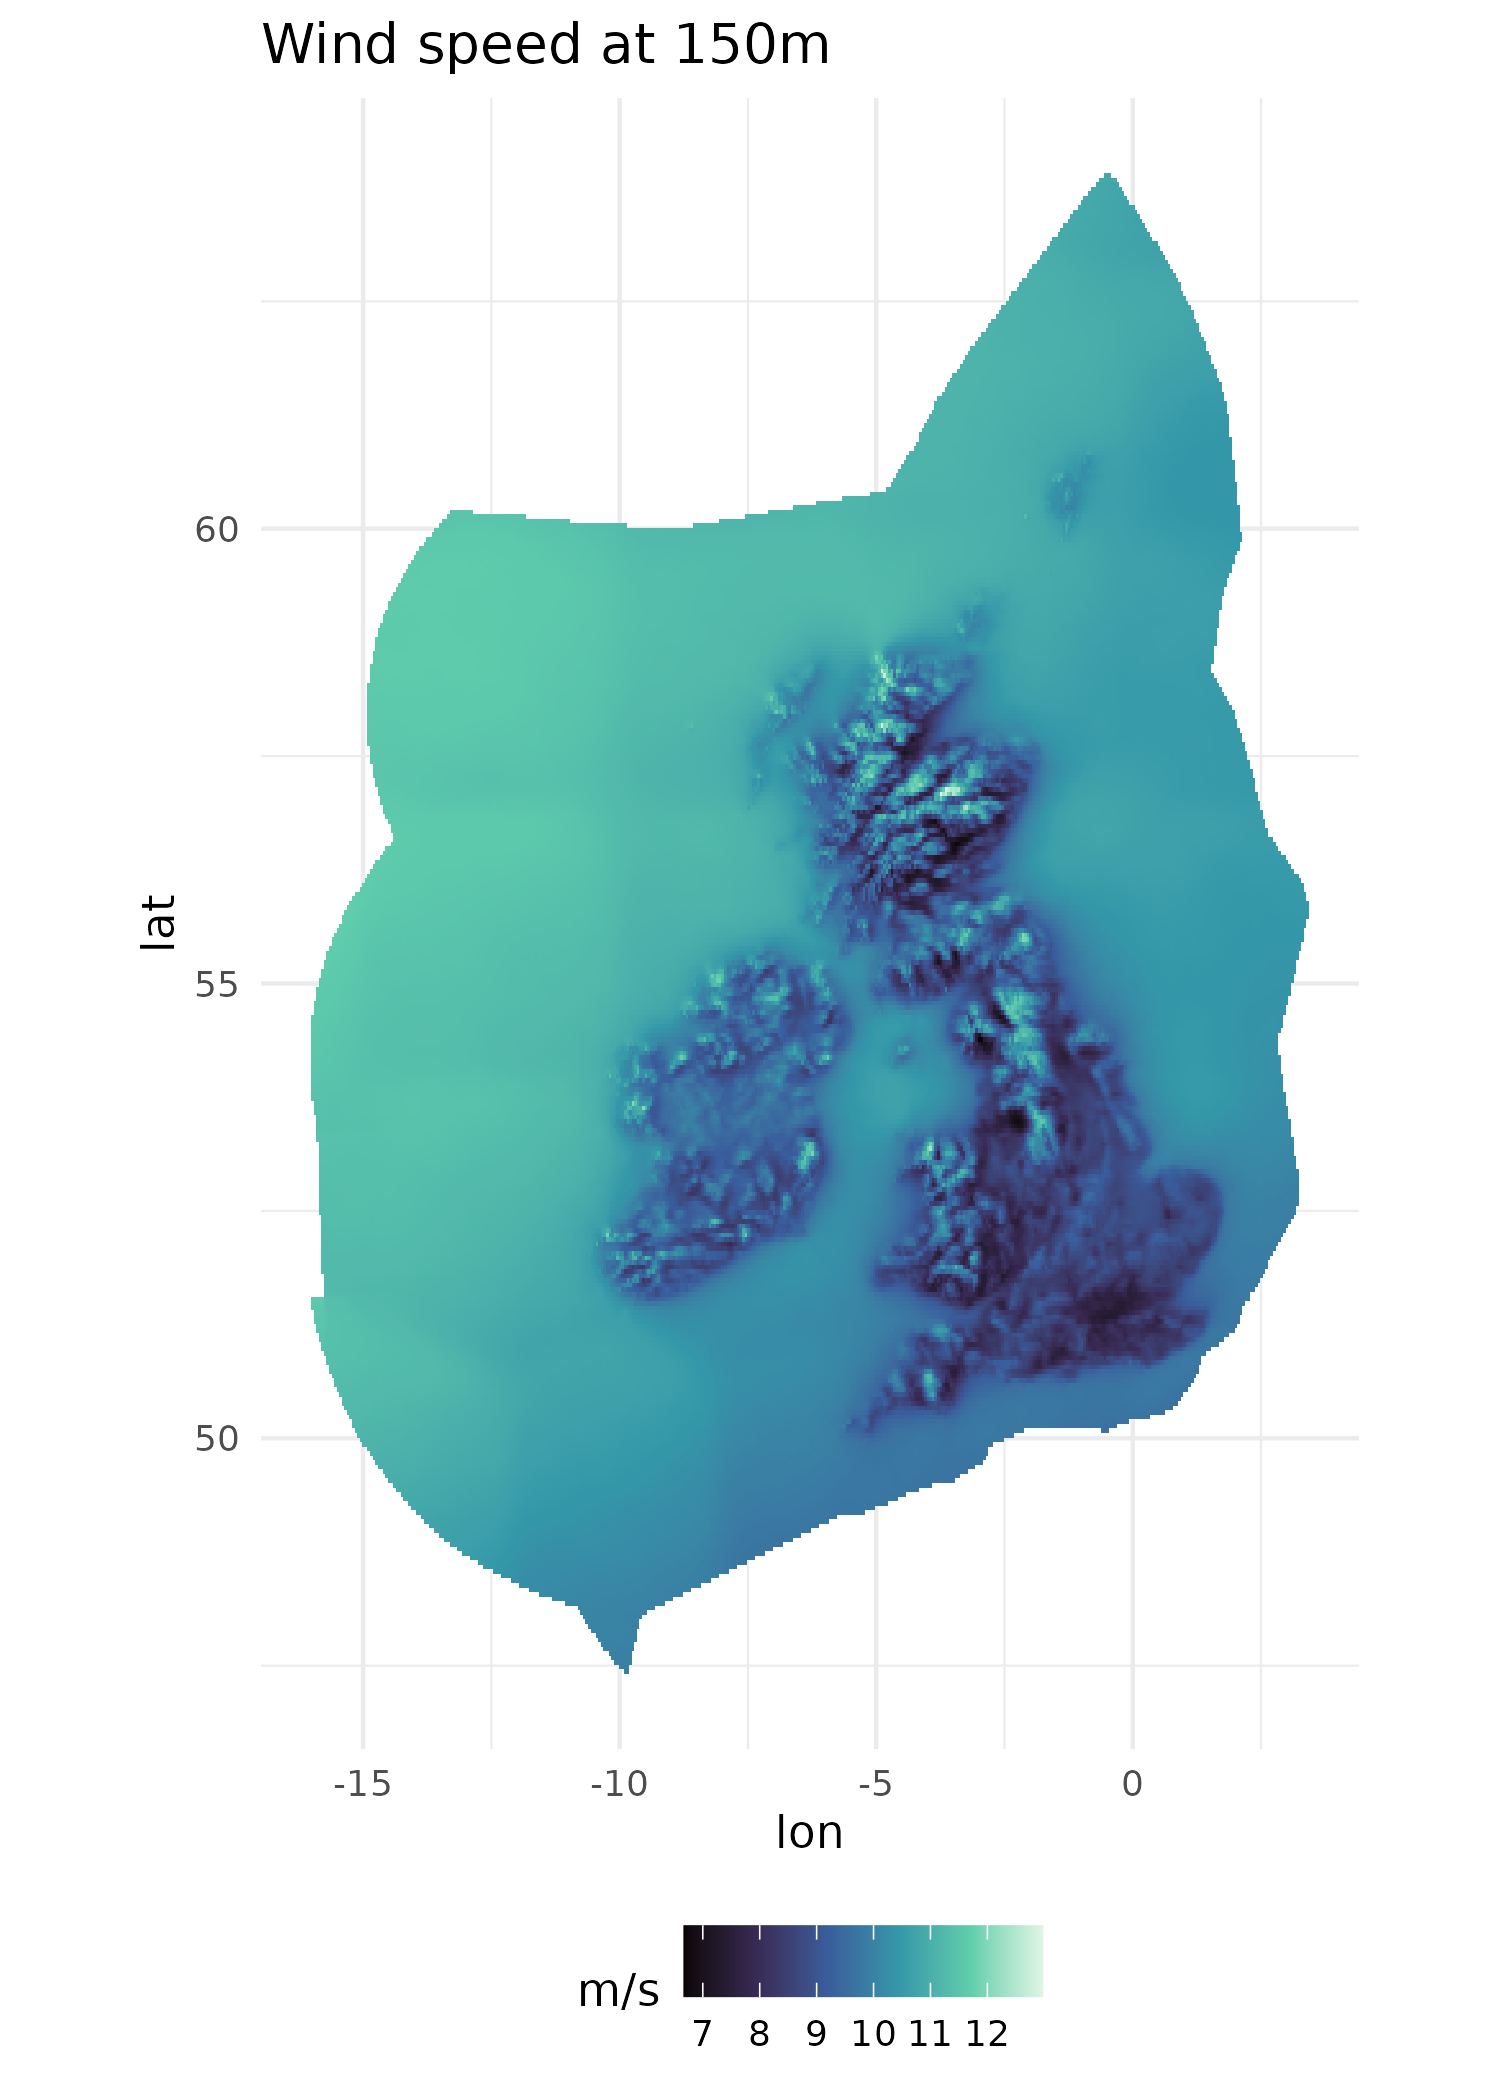
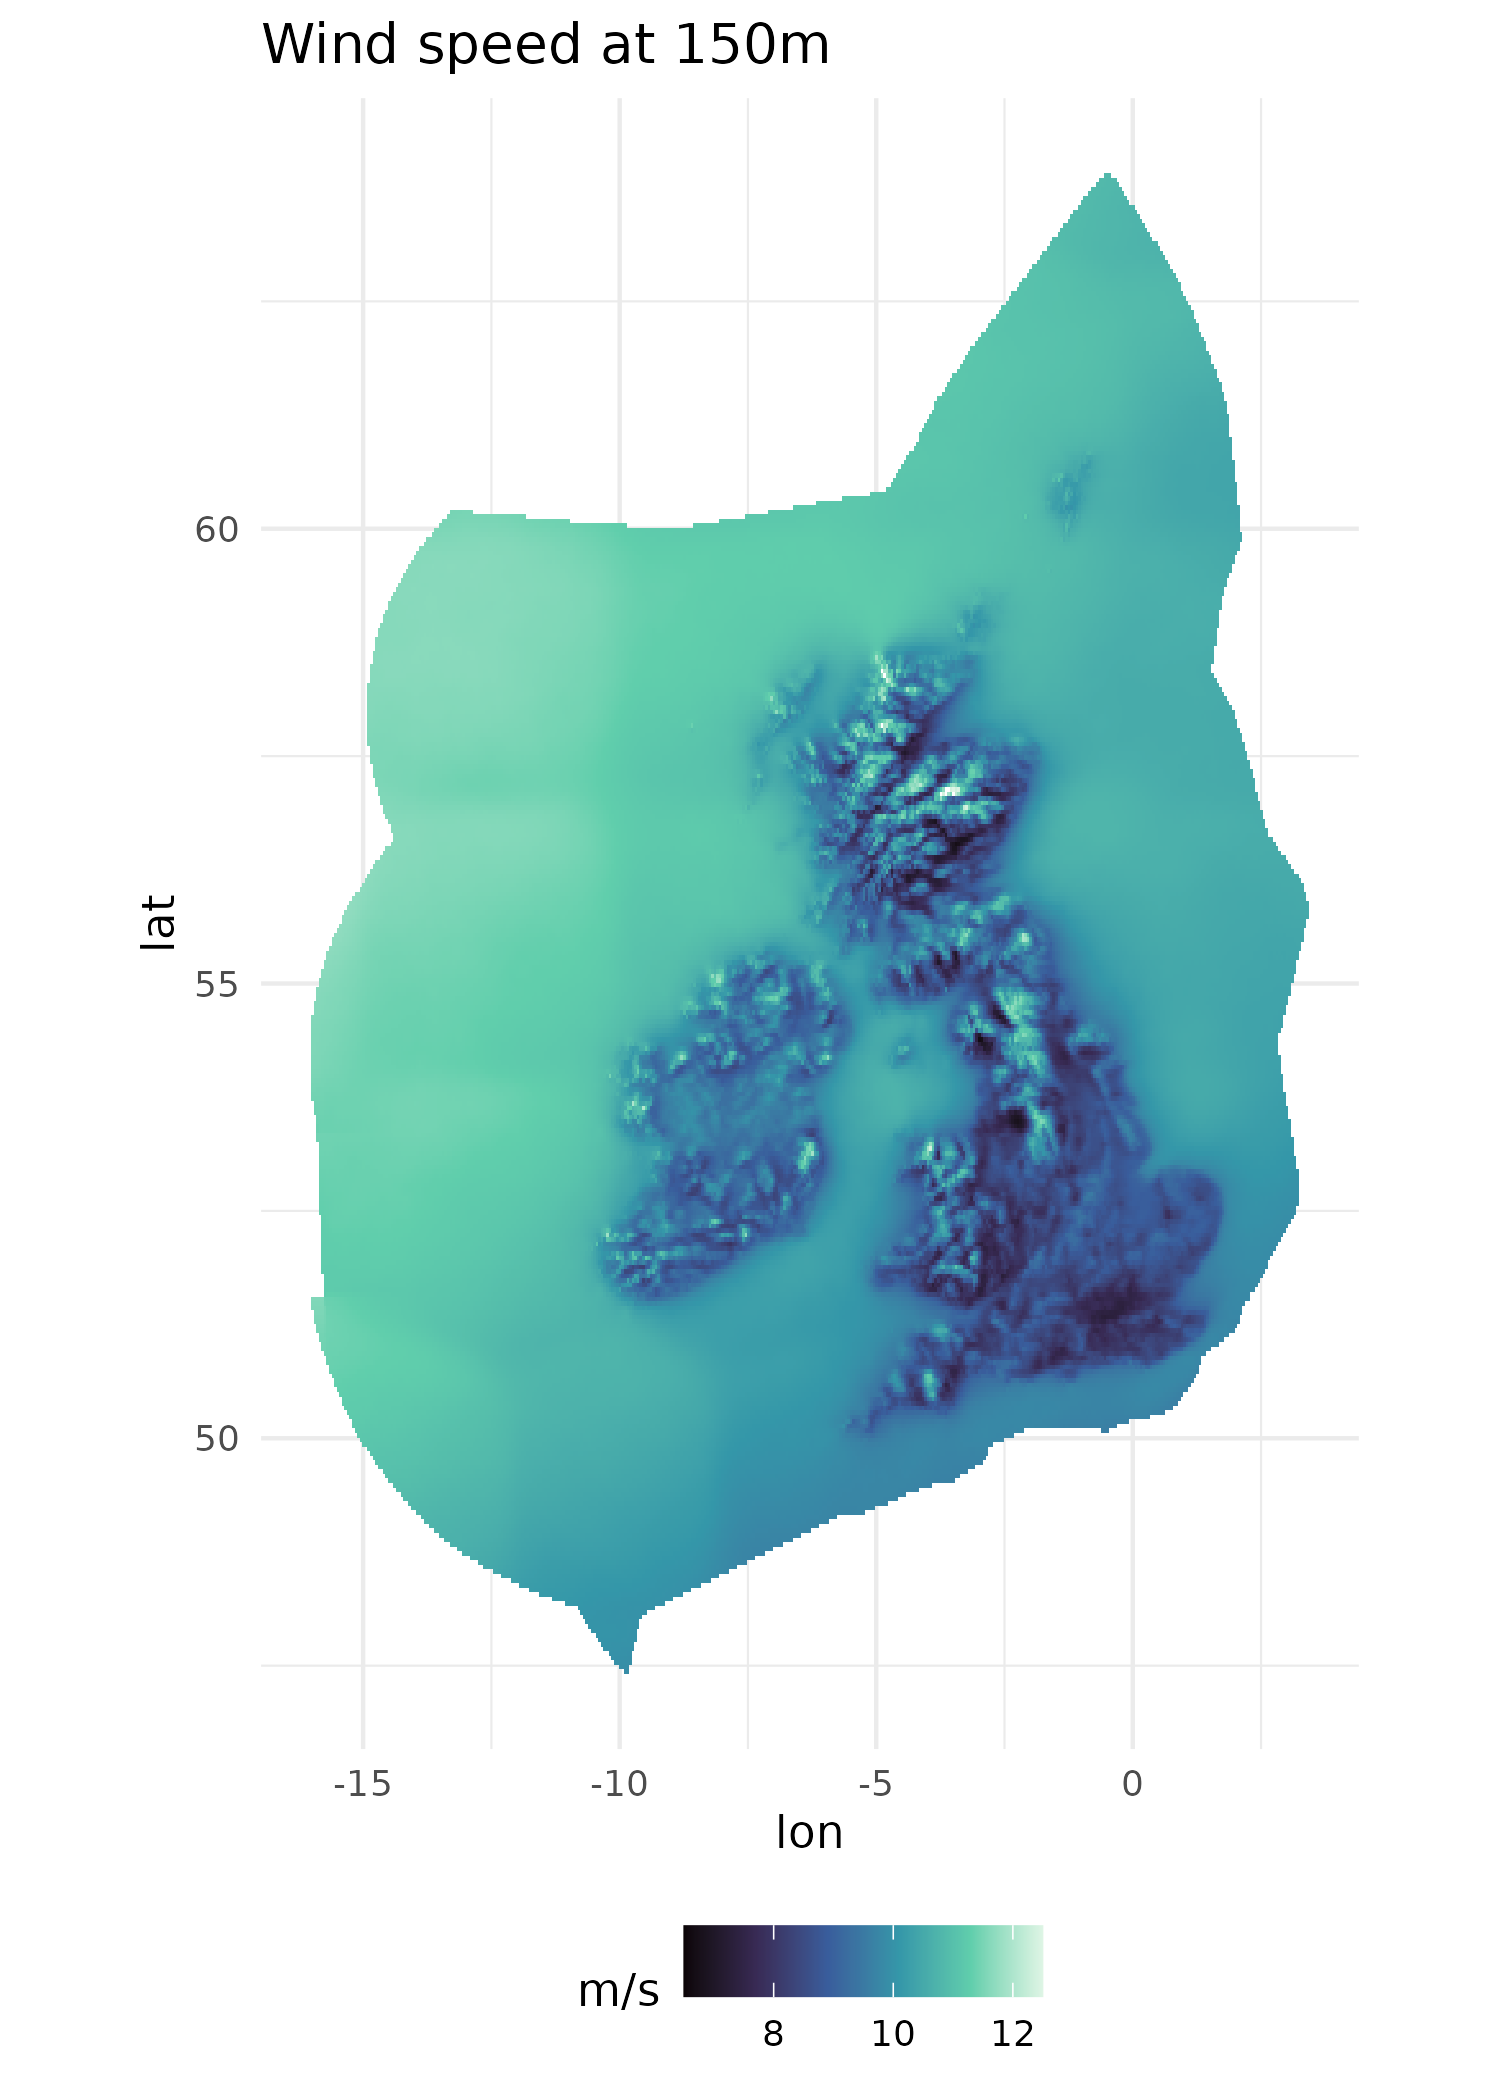
update scale in GWA wind speed maps

diff --git a/README.md b/README.md
@@ -14,7 +14,8 @@ Global Wind Atlas calibration to UK power
   - [ ] Turbine characteristics 
   - [x] Get generic power curves
   - [ ] Wind speed vertical interpolation 
-  - [ ] function to extract GWA wind speed
+  - [x] function to extract GWA wind speed
+  - [ ] add GWA wind speed at multiple heights
   - [ ] Get elevation  
   - [ ] Get curtailment *
 
